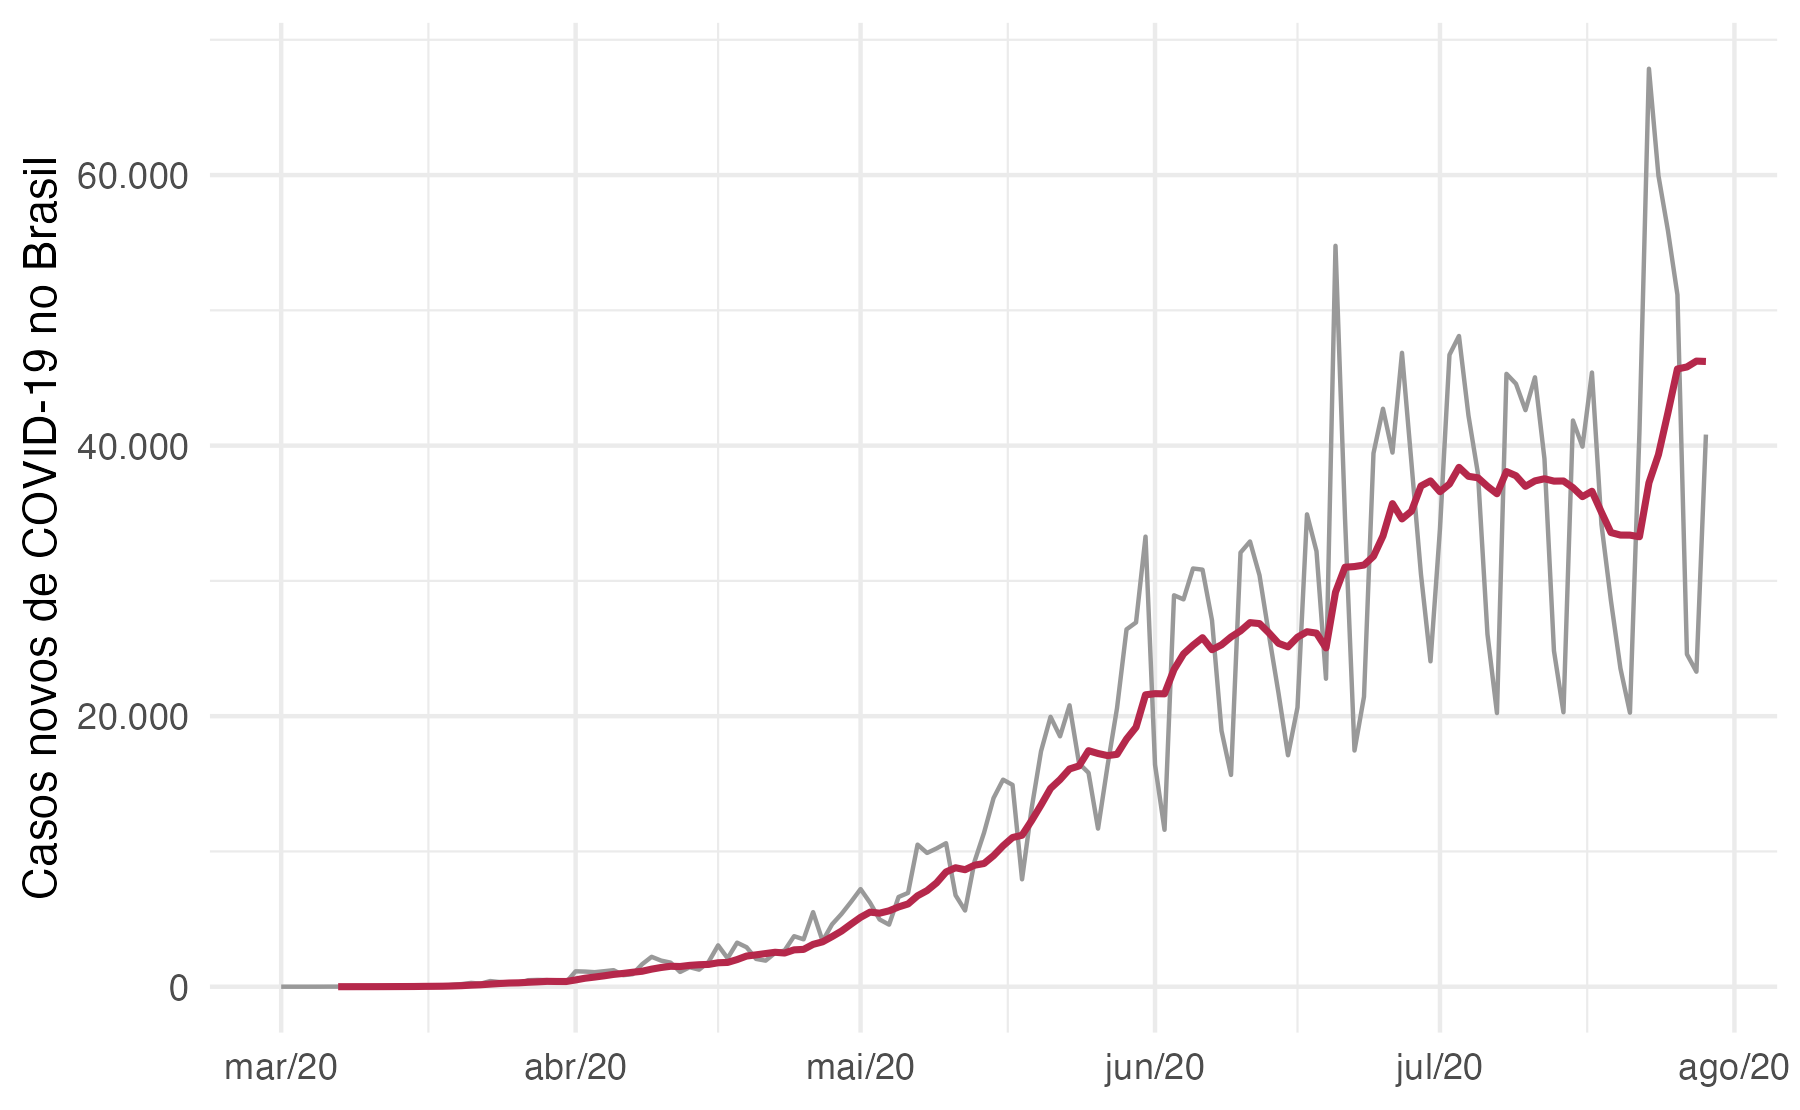
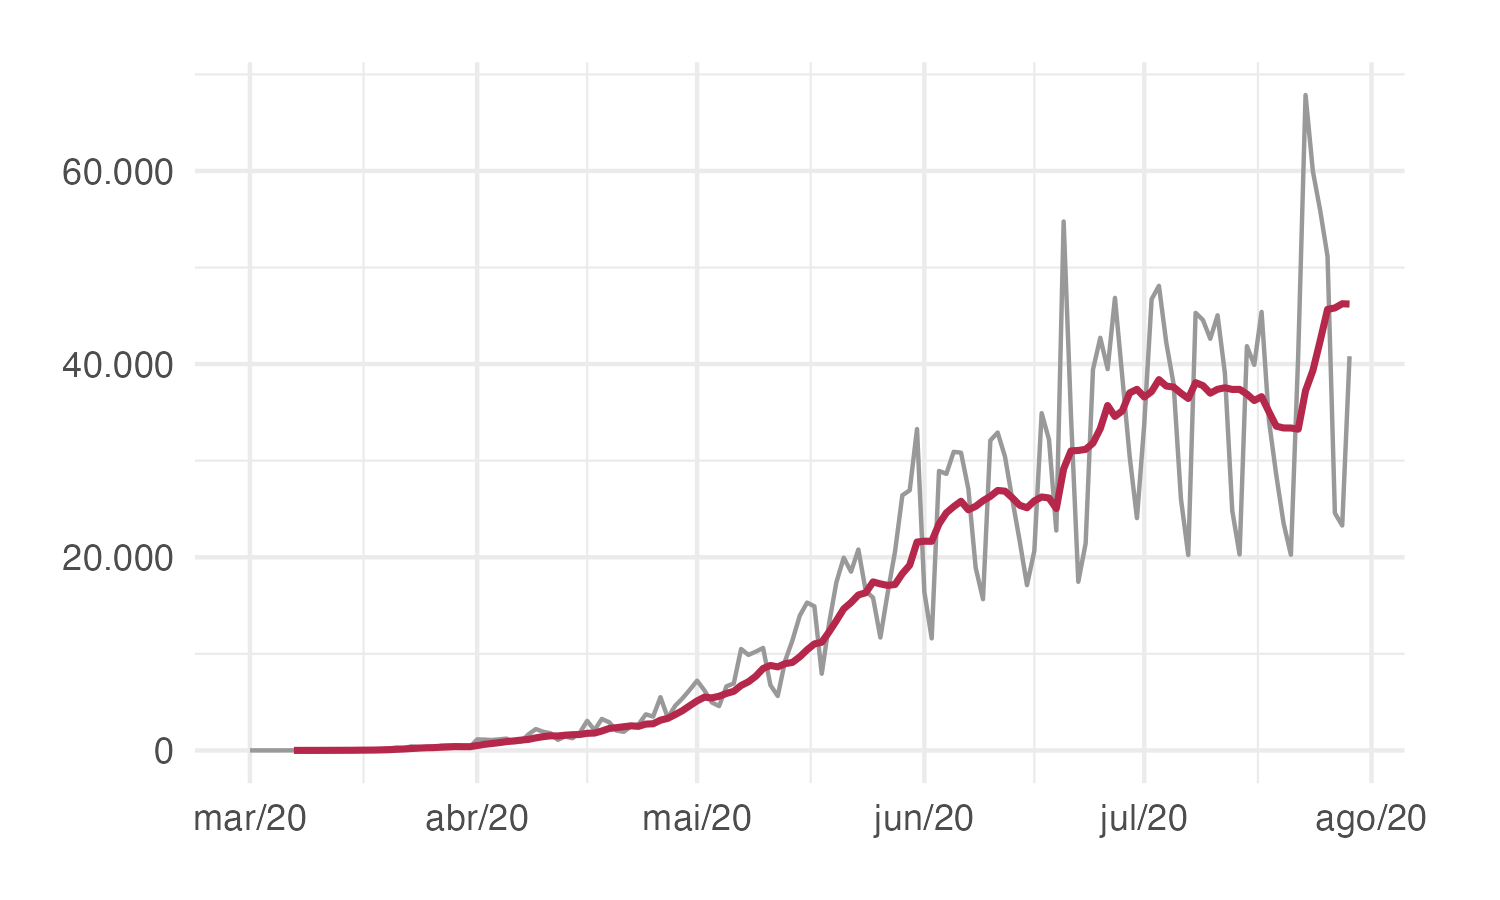
.

diff --git a/content/blog/media-movel/index.html b/content/blog/media-movel/index.html
@@ -51,7 +51,7 @@ editor_options:
 <p><img src="{{< blogdown/postref >}}index_files/figure-html/unnamed-chunk-2-1.png" alt="" width="624" style="display: block; margin: auto;" /></p>
 <p>A partir de 11 de março, novos casos de COVID-19 eram registrados todos os dias no Brasil. O maior pico do período foi o registro de <strong>67.860 casos novos</strong> em 23 de julho.</p>
 <p>No entanto, há uma grande flutuação na quantidade de casos novos. No gráfico de linhas, observamos subidas seguidas de quedas. Perceba como a quantidade de casos novos varia muito de um dia para o outro, ao redor da data do pico (23/07):</p>
-<div class="tabwid"><style>.cl-ae717476{}.cl-ae6d8eec{font-family:'Helvetica';font-size:11pt;font-weight:bold;font-style:normal;text-decoration:none;color:rgba(0, 0, 0, 1.00);background-color:transparent;}.cl-ae6d8ef6{font-family:'Helvetica';font-size:11pt;font-weight:normal;font-style:normal;text-decoration:none;color:rgba(0, 0, 0, 1.00);background-color:transparent;}.cl-ae6f295a{margin:0;text-align:center;border-bottom: 0 solid rgba(0, 0, 0, 1.00);border-top: 0 solid rgba(0, 0, 0, 1.00);border-left: 0 solid rgba(0, 0, 0, 1.00);border-right: 0 solid rgba(0, 0, 0, 1.00);padding-bottom:5pt;padding-top:5pt;padding-left:5pt;padding-right:5pt;line-height: 1;background-color:transparent;}.cl-ae6f3c56{width:1.2in;background-color:transparent;vertical-align: middle;border-bottom: 1.5pt solid rgba(102, 102, 102, 1.00);border-top: 1.5pt solid rgba(102, 102, 102, 1.00);border-left: 0 solid rgba(0, 0, 0, 1.00);border-right: 0 solid rgba(0, 0, 0, 1.00);margin-bottom:0;margin-top:0;margin-left:0;margin-right:0;}.cl-ae6f3c57{width:1.2in;background-color:transparent;vertical-align: middle;border-bottom: 0 solid rgba(0, 0, 0, 1.00);border-top: 0 solid rgba(0, 0, 0, 1.00);border-left: 0 solid rgba(0, 0, 0, 1.00);border-right: 0 solid rgba(0, 0, 0, 1.00);margin-bottom:0;margin-top:0;margin-left:0;margin-right:0;}.cl-ae6f3c58{width:1.2in;background-color:transparent;vertical-align: middle;border-bottom: 1.5pt solid rgba(102, 102, 102, 1.00);border-top: 0 solid rgba(0, 0, 0, 1.00);border-left: 0 solid rgba(0, 0, 0, 1.00);border-right: 0 solid rgba(0, 0, 0, 1.00);margin-bottom:0;margin-top:0;margin-left:0;margin-right:0;}</style><table data-quarto-disable-processing='true' class='cl-ae717476'><thead><tr style="overflow-wrap:break-word;"><th class="cl-ae6f3c56"><p class="cl-ae6f295a"><span class="cl-ae6d8eec">Data</span></p></th><th class="cl-ae6f3c56"><p class="cl-ae6f295a"><span class="cl-ae6d8eec">Casos novos</span></p></th><th class="cl-ae6f3c56"><p class="cl-ae6f295a"><span class="cl-ae6d8eec">Dia da semana</span></p></th></tr></thead><tbody><tr style="overflow-wrap:break-word;"><td class="cl-ae6f3c57"><p class="cl-ae6f295a"><span class="cl-ae6d8ef6">18/07/2020</span></p></td><td class="cl-ae6f3c57"><p class="cl-ae6f295a"><span class="cl-ae6d8ef6">34.177</span></p></td><td class="cl-ae6f3c57"><p class="cl-ae6f295a"><span class="cl-ae6d8ef6">Sábado</span></p></td></tr><tr style="overflow-wrap:break-word;"><td class="cl-ae6f3c57"><p class="cl-ae6f295a"><span class="cl-ae6d8ef6">19/07/2020</span></p></td><td class="cl-ae6f3c57"><p class="cl-ae6f295a"><span class="cl-ae6d8ef6">28.532</span></p></td><td class="cl-ae6f3c57"><p class="cl-ae6f295a"><span class="cl-ae6d8ef6">Domingo</span></p></td></tr><tr style="overflow-wrap:break-word;"><td class="cl-ae6f3c57"><p class="cl-ae6f295a"><span class="cl-ae6d8ef6">20/07/2020</span></p></td><td class="cl-ae6f3c57"><p class="cl-ae6f295a"><span class="cl-ae6d8ef6">23.529</span></p></td><td class="cl-ae6f3c57"><p class="cl-ae6f295a"><span class="cl-ae6d8ef6">Segunda-feira</span></p></td></tr><tr style="overflow-wrap:break-word;"><td class="cl-ae6f3c57"><p class="cl-ae6f295a"><span class="cl-ae6d8ef6">21/07/2020</span></p></td><td class="cl-ae6f3c57"><p class="cl-ae6f295a"><span class="cl-ae6d8ef6">20.257</span></p></td><td class="cl-ae6f3c57"><p class="cl-ae6f295a"><span class="cl-ae6d8ef6">Terça-feira</span></p></td></tr><tr style="overflow-wrap:break-word;"><td class="cl-ae6f3c57"><p class="cl-ae6f295a"><span class="cl-ae6d8ef6">22/07/2020</span></p></td><td class="cl-ae6f3c57"><p class="cl-ae6f295a"><span class="cl-ae6d8ef6">41.008</span></p></td><td class="cl-ae6f3c57"><p class="cl-ae6f295a"><span class="cl-ae6d8ef6">Quarta-feira</span></p></td></tr><tr style="overflow-wrap:break-word;"><td class="cl-ae6f3c57"><p class="cl-ae6f295a"><span class="cl-ae6d8ef6">23/07/2020</span></p></td><td class="cl-ae6f3c57"><p class="cl-ae6f295a"><span class="cl-ae6d8ef6">67.860</span></p></td><td class="cl-ae6f3c57"><p class="cl-ae6f295a"><span class="cl-ae6d8ef6">Quinta-feira</span></p></td></tr><tr style="overflow-wrap:break-word;"><td class="cl-ae6f3c57"><p class="cl-ae6f295a"><span class="cl-ae6d8ef6">24/07/2020</span></p></td><td class="cl-ae6f3c57"><p class="cl-ae6f295a"><span class="cl-ae6d8ef6">59.961</span></p></td><td class="cl-ae6f3c57"><p class="cl-ae6f295a"><span class="cl-ae6d8ef6">Sexta-feira</span></p></td></tr><tr style="overflow-wrap:break-word;"><td class="cl-ae6f3c57"><p class="cl-ae6f295a"><span class="cl-ae6d8ef6">25/07/2020</span></p></td><td class="cl-ae6f3c57"><p class="cl-ae6f295a"><span class="cl-ae6d8ef6">55.891</span></p></td><td class="cl-ae6f3c57"><p class="cl-ae6f295a"><span class="cl-ae6d8ef6">Sábado</span></p></td></tr><tr style="overflow-wrap:break-word;"><td class="cl-ae6f3c57"><p class="cl-ae6f295a"><span class="cl-ae6d8ef6">26/07/2020</span></p></td><td class="cl-ae6f3c57"><p class="cl-ae6f295a"><span class="cl-ae6d8ef6">51.147</span></p></td><td class="cl-ae6f3c57"><p class="cl-ae6f295a"><span class="cl-ae6d8ef6">Domingo</span></p></td></tr><tr style="overflow-wrap:break-word;"><td class="cl-ae6f3c57"><p class="cl-ae6f295a"><span class="cl-ae6d8ef6">27/07/2020</span></p></td><td class="cl-ae6f3c57"><p class="cl-ae6f295a"><span class="cl-ae6d8ef6">24.578</span></p></td><td class="cl-ae6f3c57"><p class="cl-ae6f295a"><span class="cl-ae6d8ef6">Segunda-feira</span></p></td></tr><tr style="overflow-wrap:break-word;"><td class="cl-ae6f3c57"><p class="cl-ae6f295a"><span class="cl-ae6d8ef6">28/07/2020</span></p></td><td class="cl-ae6f3c57"><p class="cl-ae6f295a"><span class="cl-ae6d8ef6">23.284</span></p></td><td class="cl-ae6f3c57"><p class="cl-ae6f295a"><span class="cl-ae6d8ef6">Terça-feira</span></p></td></tr><tr style="overflow-wrap:break-word;"><td class="cl-ae6f3c58"><p class="cl-ae6f295a"><span class="cl-ae6d8ef6">29/07/2020</span></p></td><td class="cl-ae6f3c58"><p class="cl-ae6f295a"><span class="cl-ae6d8ef6">40.816</span></p></td><td class="cl-ae6f3c58"><p class="cl-ae6f295a"><span class="cl-ae6d8ef6">Quarta-feira</span></p></td></tr></tbody></table></div>
+<div class="tabwid"><style>.cl-22a94b9e{}.cl-22a56cd6{font-family:'Helvetica';font-size:11pt;font-weight:bold;font-style:normal;text-decoration:none;color:rgba(0, 0, 0, 1.00);background-color:transparent;}.cl-22a56cea{font-family:'Helvetica';font-size:11pt;font-weight:normal;font-style:normal;text-decoration:none;color:rgba(0, 0, 0, 1.00);background-color:transparent;}.cl-22a711f8{margin:0;text-align:center;border-bottom: 0 solid rgba(0, 0, 0, 1.00);border-top: 0 solid rgba(0, 0, 0, 1.00);border-left: 0 solid rgba(0, 0, 0, 1.00);border-right: 0 solid rgba(0, 0, 0, 1.00);padding-bottom:5pt;padding-top:5pt;padding-left:5pt;padding-right:5pt;line-height: 1;background-color:transparent;}.cl-22a725da{width:1.2in;background-color:transparent;vertical-align: middle;border-bottom: 1.5pt solid rgba(102, 102, 102, 1.00);border-top: 1.5pt solid rgba(102, 102, 102, 1.00);border-left: 0 solid rgba(0, 0, 0, 1.00);border-right: 0 solid rgba(0, 0, 0, 1.00);margin-bottom:0;margin-top:0;margin-left:0;margin-right:0;}.cl-22a725db{width:1.2in;background-color:transparent;vertical-align: middle;border-bottom: 0 solid rgba(0, 0, 0, 1.00);border-top: 0 solid rgba(0, 0, 0, 1.00);border-left: 0 solid rgba(0, 0, 0, 1.00);border-right: 0 solid rgba(0, 0, 0, 1.00);margin-bottom:0;margin-top:0;margin-left:0;margin-right:0;}.cl-22a725e4{width:1.2in;background-color:transparent;vertical-align: middle;border-bottom: 1.5pt solid rgba(102, 102, 102, 1.00);border-top: 0 solid rgba(0, 0, 0, 1.00);border-left: 0 solid rgba(0, 0, 0, 1.00);border-right: 0 solid rgba(0, 0, 0, 1.00);margin-bottom:0;margin-top:0;margin-left:0;margin-right:0;}</style><table data-quarto-disable-processing='true' class='cl-22a94b9e'><thead><tr style="overflow-wrap:break-word;"><th class="cl-22a725da"><p class="cl-22a711f8"><span class="cl-22a56cd6">Data</span></p></th><th class="cl-22a725da"><p class="cl-22a711f8"><span class="cl-22a56cd6">Casos novos</span></p></th><th class="cl-22a725da"><p class="cl-22a711f8"><span class="cl-22a56cd6">Dia da semana</span></p></th></tr></thead><tbody><tr style="overflow-wrap:break-word;"><td class="cl-22a725db"><p class="cl-22a711f8"><span class="cl-22a56cea">18/07/2020</span></p></td><td class="cl-22a725db"><p class="cl-22a711f8"><span class="cl-22a56cea">34.177</span></p></td><td class="cl-22a725db"><p class="cl-22a711f8"><span class="cl-22a56cea">Sábado</span></p></td></tr><tr style="overflow-wrap:break-word;"><td class="cl-22a725db"><p class="cl-22a711f8"><span class="cl-22a56cea">19/07/2020</span></p></td><td class="cl-22a725db"><p class="cl-22a711f8"><span class="cl-22a56cea">28.532</span></p></td><td class="cl-22a725db"><p class="cl-22a711f8"><span class="cl-22a56cea">Domingo</span></p></td></tr><tr style="overflow-wrap:break-word;"><td class="cl-22a725db"><p class="cl-22a711f8"><span class="cl-22a56cea">20/07/2020</span></p></td><td class="cl-22a725db"><p class="cl-22a711f8"><span class="cl-22a56cea">23.529</span></p></td><td class="cl-22a725db"><p class="cl-22a711f8"><span class="cl-22a56cea">Segunda-feira</span></p></td></tr><tr style="overflow-wrap:break-word;"><td class="cl-22a725db"><p class="cl-22a711f8"><span class="cl-22a56cea">21/07/2020</span></p></td><td class="cl-22a725db"><p class="cl-22a711f8"><span class="cl-22a56cea">20.257</span></p></td><td class="cl-22a725db"><p class="cl-22a711f8"><span class="cl-22a56cea">Terça-feira</span></p></td></tr><tr style="overflow-wrap:break-word;"><td class="cl-22a725db"><p class="cl-22a711f8"><span class="cl-22a56cea">22/07/2020</span></p></td><td class="cl-22a725db"><p class="cl-22a711f8"><span class="cl-22a56cea">41.008</span></p></td><td class="cl-22a725db"><p class="cl-22a711f8"><span class="cl-22a56cea">Quarta-feira</span></p></td></tr><tr style="overflow-wrap:break-word;"><td class="cl-22a725db"><p class="cl-22a711f8"><span class="cl-22a56cea">23/07/2020</span></p></td><td class="cl-22a725db"><p class="cl-22a711f8"><span class="cl-22a56cea">67.860</span></p></td><td class="cl-22a725db"><p class="cl-22a711f8"><span class="cl-22a56cea">Quinta-feira</span></p></td></tr><tr style="overflow-wrap:break-word;"><td class="cl-22a725db"><p class="cl-22a711f8"><span class="cl-22a56cea">24/07/2020</span></p></td><td class="cl-22a725db"><p class="cl-22a711f8"><span class="cl-22a56cea">59.961</span></p></td><td class="cl-22a725db"><p class="cl-22a711f8"><span class="cl-22a56cea">Sexta-feira</span></p></td></tr><tr style="overflow-wrap:break-word;"><td class="cl-22a725db"><p class="cl-22a711f8"><span class="cl-22a56cea">25/07/2020</span></p></td><td class="cl-22a725db"><p class="cl-22a711f8"><span class="cl-22a56cea">55.891</span></p></td><td class="cl-22a725db"><p class="cl-22a711f8"><span class="cl-22a56cea">Sábado</span></p></td></tr><tr style="overflow-wrap:break-word;"><td class="cl-22a725db"><p class="cl-22a711f8"><span class="cl-22a56cea">26/07/2020</span></p></td><td class="cl-22a725db"><p class="cl-22a711f8"><span class="cl-22a56cea">51.147</span></p></td><td class="cl-22a725db"><p class="cl-22a711f8"><span class="cl-22a56cea">Domingo</span></p></td></tr><tr style="overflow-wrap:break-word;"><td class="cl-22a725db"><p class="cl-22a711f8"><span class="cl-22a56cea">27/07/2020</span></p></td><td class="cl-22a725db"><p class="cl-22a711f8"><span class="cl-22a56cea">24.578</span></p></td><td class="cl-22a725db"><p class="cl-22a711f8"><span class="cl-22a56cea">Segunda-feira</span></p></td></tr><tr style="overflow-wrap:break-word;"><td class="cl-22a725db"><p class="cl-22a711f8"><span class="cl-22a56cea">28/07/2020</span></p></td><td class="cl-22a725db"><p class="cl-22a711f8"><span class="cl-22a56cea">23.284</span></p></td><td class="cl-22a725db"><p class="cl-22a711f8"><span class="cl-22a56cea">Terça-feira</span></p></td></tr><tr style="overflow-wrap:break-word;"><td class="cl-22a725e4"><p class="cl-22a711f8"><span class="cl-22a56cea">29/07/2020</span></p></td><td class="cl-22a725e4"><p class="cl-22a711f8"><span class="cl-22a56cea">40.816</span></p></td><td class="cl-22a725e4"><p class="cl-22a711f8"><span class="cl-22a56cea">Quarta-feira</span></p></td></tr></tbody></table></div>
 <p>Há um <strong>padrão</strong> de aumento e queda que se repete, aproximadamente, <strong>a cada sete dias</strong>. Em geral, quantidades <strong>menores</strong> de casos são observadas às <strong>segundas e terças</strong>, enquanto quantidades <strong>maiores</strong> são registradas <strong>entre quinta e sábado</strong>.</p>
 <p>Essa variação não representa necessariamente uma <strong>flutuação real</strong> na quantidade de novos casos em cada dia. A principal <strong>hipótese</strong> levantada na época era um <strong>atraso na notificação</strong> dos casos e no processamento dos resultados dos testes, fazendo com que os registros se concentrassem em determinados dias da semana.</p>
 <p>A questão é que essa flutuação <strong>atrapalha a análise da tendência dos dados</strong>. Ao olharmos para o gráfico, temos dificuldade de identificar se a quantidade de casos está aumentando ou diminuindo. Esse é exatamente o tipo de situação em que a média móvel pode ser mais informativa.</p>